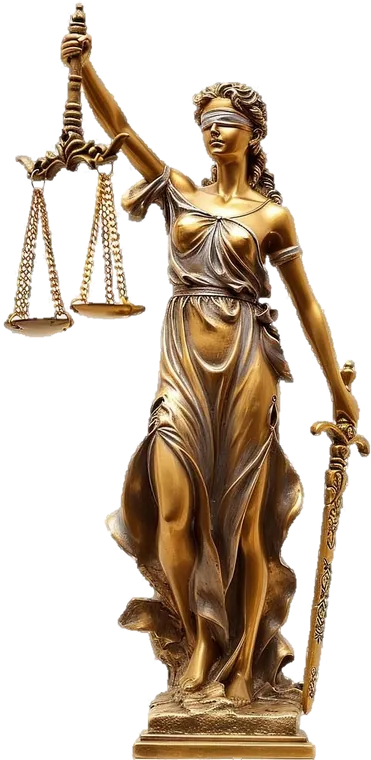
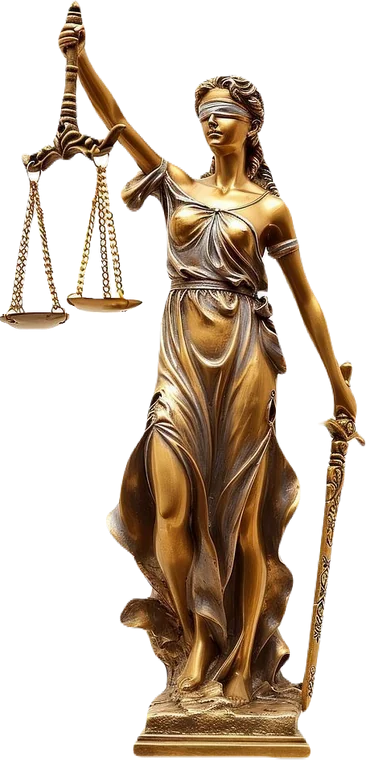
Use the new, cleaner Lady Justice cutout
Replaces statue-justice.webp and statue-justice-sm.webp with the new
cutout (no white halo around the hair, sword and base). The white
background left inside the scale chains was cleared so the page shows
through the links. The Home stage now uses the new image's proportions
(455 / 944); the scroll journey, mobile entrance, CTA and 404 uses are
unchanged.

Claude-Session: https://claude.ai/code/session_01LTC8QHJQjacBjPBcPrh78U

Changed region(s): [[0.0, 0.0, 1.0, 1.0]]

diff --git a/btb-site/src/pages/Home.tsx b/btb-site/src/pages/Home.tsx
@@ -180,13 +180,13 @@ export default function Home() {
             </p>
           </div>
           <div className="j-statue absolute inset-x-0 -bottom-[4svh] flex origin-bottom justify-center sm:bottom-0">
-            <div className="j-statue-inner relative h-[54svh] sm:h-[66svh] lg:h-[86svh]" style={{ aspectRatio: '480 / 984' }}>
+            <div className="j-statue-inner relative h-[54svh] sm:h-[66svh] lg:h-[86svh]" style={{ aspectRatio: '455 / 944' }}>
               <div className="j-glow absolute top-[8%] left-1/2 aspect-square w-[180%] -translate-x-1/2 rounded-full bg-[radial-gradient(circle,rgba(207,160,113,0.55)_0%,rgba(207,160,113,0.18)_38%,transparent_66%)]" />
               <img
                 src={asset('img/statue-justice.webp')}
                 alt=""
-                width={960}
-                height={1968}
+                width={910}
+                height={1888}
                 fetchPriority="high"
                 onLoad={() => queueRefresh()}
                 className="relative h-full w-full object-contain drop-shadow-[0_40px_50px_rgba(8,38,64,0.28)]"
@@ -255,13 +255,13 @@ export default function Home() {
 
           {/* Lady Justice in the page flow on phones and tablets */}
           <div className="wrap mt-6 lg:hidden" aria-hidden="true">
-            <div className="relative mx-auto h-[min(54svh,520px)]" style={{ aspectRatio: '480 / 984' }}>
+            <div className="relative mx-auto h-[min(54svh,520px)]" style={{ aspectRatio: '455 / 944' }}>
               <div className="absolute top-[8%] left-1/2 aspect-square w-[170%] -translate-x-1/2 rounded-full bg-[radial-gradient(circle,rgba(207,160,113,0.4)_0%,rgba(207,160,113,0.12)_38%,transparent_66%)]" />
               <img
                 src={asset('img/statue-justice.webp')}
                 alt=""
-                width={960}
-                height={1968}
+                width={910}
+                height={1888}
                 className="j-statue-m relative h-full w-full object-contain drop-shadow-[0_28px_32px_rgba(8,38,64,0.24)]"
               />
             </div>
